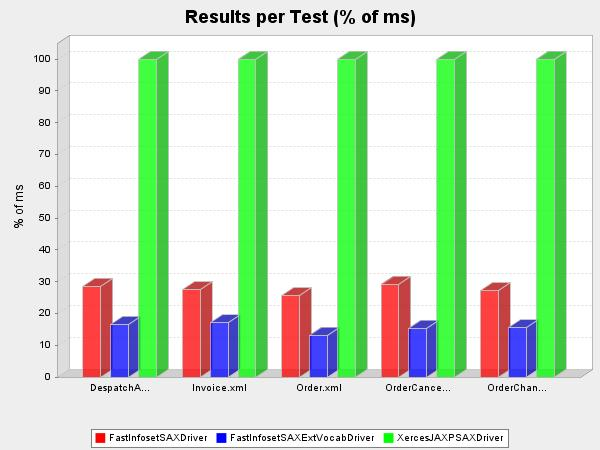
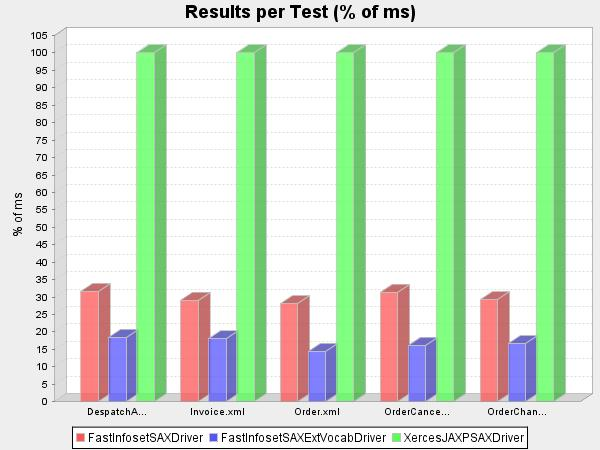
update from reports/UBLFIpex/2006_01_12_23_46

diff --git a/www/performance-reports/UBL/parse/report.html b/www/performance-reports/UBL/parse/report.html
@@ -1,4 +1,15 @@
-<?xml version="1.0" encoding="UTF-8"?><html xmlns="http://www.w3.org/1999/xhtml" xmlns:extrep="http://www.sun.com/japex/extendedTestSuiteReport" xmlns:rep="http://www.sun.com/japex/testSuiteReport"><link href="report.css" type="text/css" rel="stylesheet"/><head><h1>Japex Report: UBL-parse-index</h1></head><body><ul><li>classPath: /export/home/ps23762/Projects/zarya.east/JapexXMLDriverLibrary/dist/JapexXMLDriverLibrary.jar</li><li>dateTime: 09 Sep 2005/19:38:23 CEST</li><li>numberOfThreads: 1</li><li>osArchitecture: x86</li><li>osName: SunOS</li><li>reportsDirectory: reports</li><li>resultUnit: ms</li><li>runsPerDriver: 1</li><li>runTime: 5</li><li>version: 0.100</li><li>vmInfo: Sun Microsystems Inc. 1.5.0_04-b05</li><li>warmupTime: 5</li></ul><h2>Result Summary 
-    (ms)</h2><table width="80%" border="1"><thead><tr><th width="15%"><b>driver</b></th><th><b>resultAritMean</b></th><th><b>resultHarmMean</b></th><th><b>resultGeomMean</b></th><th><b>driverClass</b></th></tr></thead><tbody><tr><td align="right">FastInfosetSAXDriver</td><td align="right"><nobr>0.062</nobr></td><td align="right"><nobr>0.048</nobr></td><td align="right"><nobr>0.056</nobr></td><td align="right"><nobr>com.sun.japex.jdsl.xml.parsing.sax.FastInfosetSAXDriver</nobr></td></tr><tr><td align="right">FastInfosetSAXExtVocabDriver</td><td align="right"><nobr>0.036</nobr></td><td align="right"><nobr>0.027</nobr></td><td align="right"><nobr>0.032</nobr></td><td align="right"><nobr>com.sun.japex.jdsl.xml.parsing.sax.FastInfosetSAXDriver</nobr></td><td align="left"><nobr>true</nobr></td></tr><tr><td align="right">XercesJAXPSAXDriver</td><td align="right"><nobr>0.275</nobr></td><td align="right"><nobr>0.211</nobr></td><td align="right"><nobr>0.248</nobr></td><td align="right"><nobr>com.sun.japex.jdsl.xml.parsing.sax.XercesJAXPSAXDriver</nobr></td></tr></tbody></table><br/><br/><center><img src="result.jpg"/></center><br/><br/><h2>Driver: FastInfosetSAXDriver</h2><table width="80%" border="1"><thead><tr><th><b>testCase</b></th><th><b>resultValue</b></th><th><b>xmlfile</b></th></tr></thead><tbody><tr><td align="right">DespatchAdvice.xml</td><td align="right"><nobr>0.076</nobr></td><td align="left"><nobr>data/DespatchAdvice.xml</nobr></td></tr><tr><td align="right">Invoice.xml</td><td align="right"><nobr>0.118</nobr></td><td align="left"><nobr>data/Invoice.xml</nobr></td></tr><tr><td align="right">Order.xml</td><td align="right"><nobr>0.071</nobr></td><td align="left"><nobr>data/Order.xml</nobr></td></tr><tr><td align="right">OrderCancellation.xml</td><td align="right"><nobr>0.055</nobr></td><td align="left"><nobr>data/OrderCancellation.xml</nobr></td></tr><tr><td align="right">OrderChange.xml</td><td align="right"><nobr>0.086</nobr></td><td align="left"><nobr>data/OrderChange.xml</nobr></td></tr><tr><td align="right">OrderResponse.xml</td><td align="right"><nobr>0.088</nobr></td><td align="left"><nobr>data/OrderResponse.xml</nobr></td></tr><tr><td align="right">OrderResponseSimple.xml</td><td align="right"><nobr>0.054</nobr></td><td align="left"><nobr>data/OrderResponseSimple.xml</nobr></td></tr><tr><td align="right">ReceiptAdvice.xml</td><td align="right"><nobr>0.079</nobr></td><td align="left"><nobr>data/ReceiptAdvice.xml</nobr></td></tr><tr><td align="right">UBL-DespatchAdvice-1.0-Joinery-Example.xml</td><td align="right"><nobr>0.050</nobr></td><td align="left"><nobr>data/UBL-DespatchAdvice-1.0-Joinery-Example.xml</nobr></td></tr><tr><td align="right">UBL-DespatchAdvice-1.0-Office-Example.xml</td><td align="right"><nobr>0.045</nobr></td><td align="left"><nobr>data/UBL-DespatchAdvice-1.0-Office-Example.xml</nobr></td></tr><tr><td align="right">UBL-Invoice-1.0-Joinery-Example.xml</td><td align="right"><nobr>0.098</nobr></td><td align="left"><nobr>data/UBL-Invoice-1.0-Joinery-Example.xml</nobr></td></tr><tr><td align="right">UBL-Invoice-1.0-Office-Example.xml</td><td align="right"><nobr>0.064</nobr></td><td align="left"><nobr>data/UBL-Invoice-1.0-Office-Example.xml</nobr></td></tr><tr><td align="right">UBL-Order-1.0-Joinery-Example.xml</td><td align="right"><nobr>0.052</nobr></td><td align="left"><nobr>data/UBL-Order-1.0-Joinery-Example.xml</nobr></td></tr><tr><td align="right">UBL-Order-1.0-Office-Example.xml</td><td align="right"><nobr>0.048</nobr></td><td align="left"><nobr>data/UBL-Order-1.0-Office-Example.xml</nobr></td></tr><tr><td align="right">UBL-OrderCancellation-1.0-Office-Example.xml</td><td align="right"><nobr>0.017</nobr></td><td align="left"><nobr>data/UBL-OrderCancellation-1.0-Office-Example.xml</nobr></td></tr><tr><td align="right">UBL-OrderChange-1.0-Office-Example.xml</td><td align="right"><nobr>0.053</nobr></td><td align="left"><nobr>data/UBL-OrderChange-1.0-Office-Example.xml</nobr></td></tr><tr><td align="right">UBL-OrderResponse-1.0-Joinery-Example.xml</td><td align="right"><nobr>0.071</nobr></td><td align="left"><nobr>data/UBL-OrderResponse-1.0-Joinery-Example.xml</nobr></td></tr><tr><td align="right">UBL-OrderResponseSimple-1.0-Office-Example.xml</td><td align="right"><nobr>0.017</nobr></td><td align="left"><nobr>data/UBL-OrderResponseSimple-1.0-Office-Example.xml</nobr></td></tr><tr><td align="right">UBL-ReceiptAdvice-1.0-Office-Example.xml</td><td align="right"><nobr>0.035</nobr></td><td align="left"><nobr>data/UBL-ReceiptAdvice-1.0-Office-Example.xml</nobr></td></tr></tbody></table><h2>Driver: FastInfosetSAXExtVocabDriver</h2><table width="80%" border="1"><thead><tr><th><b>testCase</b></th><th><b>resultValue</b></th><th><b>xmlfile</b></th></tr></thead><tbody><tr><td align="right">DespatchAdvice.xml</td><td align="right"><nobr>0.044</nobr></td><td align="left"><nobr>data/DespatchAdvice.xml</nobr></td></tr><tr><td align="right">Invoice.xml</td><td align="right"><nobr>0.073</nobr></td><td align="left"><nobr>data/Invoice.xml</nobr></td></tr><tr><td align="right">Order.xml</td><td align="right"><nobr>0.037</nobr></td><td align="left"><nobr>data/Order.xml</nobr></td></tr><tr><td align="right">OrderCancellation.xml</td><td align="right"><nobr>0.029</nobr></td><td align="left"><nobr>data/OrderCancellation.xml</nobr></td></tr><tr><td align="right">OrderChange.xml</td><td align="right"><nobr>0.049</nobr></td><td align="left"><nobr>data/OrderChange.xml</nobr></td></tr><tr><td align="right">OrderResponse.xml</td><td align="right"><nobr>0.052</nobr></td><td align="left"><nobr>data/OrderResponse.xml</nobr></td></tr><tr><td align="right">OrderResponseSimple.xml</td><td align="right"><nobr>0.028</nobr></td><td align="left"><nobr>data/OrderResponseSimple.xml</nobr></td></tr><tr><td align="right">ReceiptAdvice.xml</td><td align="right"><nobr>0.048</nobr></td><td align="left"><nobr>data/ReceiptAdvice.xml</nobr></td></tr><tr><td align="right">UBL-DespatchAdvice-1.0-Joinery-Example.xml</td><td align="right"><nobr>0.032</nobr></td><td align="left"><nobr>data/UBL-DespatchAdvice-1.0-Joinery-Example.xml</nobr></td></tr><tr><td align="right">UBL-DespatchAdvice-1.0-Office-Example.xml</td><td align="right"><nobr>0.027</nobr></td><td align="left"><nobr>data/UBL-DespatchAdvice-1.0-Office-Example.xml</nobr></td></tr><tr><td align="right">UBL-Invoice-1.0-Joinery-Example.xml</td><td align="right"><nobr>0.058</nobr></td><td align="left"><nobr>data/UBL-Invoice-1.0-Joinery-Example.xml</nobr></td></tr><tr><td align="right">UBL-Invoice-1.0-Office-Example.xml</td><td align="right"><nobr>0.037</nobr></td><td align="left"><nobr>data/UBL-Invoice-1.0-Office-Example.xml</nobr></td></tr><tr><td align="right">UBL-Order-1.0-Joinery-Example.xml</td><td align="right"><nobr>0.035</nobr></td><td align="left"><nobr>data/UBL-Order-1.0-Joinery-Example.xml</nobr></td></tr><tr><td align="right">UBL-Order-1.0-Office-Example.xml</td><td align="right"><nobr>0.028</nobr></td><td align="left"><nobr>data/UBL-Order-1.0-Office-Example.xml</nobr></td></tr><tr><td align="right">UBL-OrderCancellation-1.0-Office-Example.xml</td><td align="right"><nobr>0.009</nobr></td><td align="left"><nobr>data/UBL-OrderCancellation-1.0-Office-Example.xml</nobr></td></tr><tr><td align="right">UBL-OrderChange-1.0-Office-Example.xml</td><td align="right"><nobr>0.031</nobr></td><td align="left"><nobr>data/UBL-OrderChange-1.0-Office-Example.xml</nobr></td></tr><tr><td align="right">UBL-OrderResponse-1.0-Joinery-Example.xml</td><td align="right"><nobr>0.047</nobr></td><td align="left"><nobr>data/UBL-OrderResponse-1.0-Joinery-Example.xml</nobr></td></tr><tr><td align="right">UBL-OrderResponseSimple-1.0-Office-Example.xml</td><td align="right"><nobr>0.009</nobr></td><td align="left"><nobr>data/UBL-OrderResponseSimple-1.0-Office-Example.xml</nobr></td></tr><tr><td align="right">UBL-ReceiptAdvice-1.0-Office-Example.xml</td><td align="right"><nobr>0.020</nobr></td><td align="left"><nobr>data/UBL-ReceiptAdvice-1.0-Office-Example.xml</nobr></td></tr></tbody></table><h2>Driver: XercesJAXPSAXDriver</h2><table width="80%" border="1"><thead><tr><th><b>testCase</b></th><th><b>resultValue</b></th><th><b>xmlfile</b></th></tr></thead><tbody><tr><td align="right">DespatchAdvice.xml</td><td align="right"><nobr>0.266</nobr></td><td align="left"><nobr>data/DespatchAdvice.xml</nobr></td></tr><tr><td align="right">Invoice.xml</td><td align="right"><nobr>0.429</nobr></td><td align="left"><nobr>data/Invoice.xml</nobr></td></tr><tr><td align="right">Order.xml</td><td align="right"><nobr>0.277</nobr></td><td align="left"><nobr>data/Order.xml</nobr></td></tr><tr><td align="right">OrderCancellation.xml</td><td align="right"><nobr>0.187</nobr></td><td align="left"><nobr>data/OrderCancellation.xml</nobr></td></tr><tr><td align="right">OrderChange.xml</td><td align="right"><nobr>0.315</nobr></td><td align="left"><nobr>data/OrderChange.xml</nobr></td></tr><tr><td align="right">OrderResponse.xml</td><td align="right"><nobr>0.347</nobr></td><td align="left"><nobr>data/OrderResponse.xml</nobr></td></tr><tr><td align="right">OrderResponseSimple.xml</td><td align="right"><nobr>0.188</nobr></td><td align="left"><nobr>data/OrderResponseSimple.xml</nobr></td></tr><tr><td align="right">ReceiptAdvice.xml</td><td align="right"><nobr>0.280</nobr></td><td align="left"><nobr>data/ReceiptAdvice.xml</nobr></td></tr><tr><td align="right">UBL-DespatchAdvice-1.0-Joinery-Example.xml</td><td align="right"><nobr>0.316</nobr></td><td align="left"><nobr>data/UBL-DespatchAdvice-1.0-Joinery-Example.xml</nobr></td></tr><tr><td align="right">UBL-DespatchAdvice-1.0-Office-Example.xml</td><td align="right"><nobr>0.252</nobr></td><td align="left"><nobr>data/UBL-DespatchAdvice-1.0-Office-Example.xml</nobr></td></tr><tr><td align="right">UBL-Invoice-1.0-Joinery-Example.xml</td><td align="right"><nobr>0.508</nobr></td><td align="left"><nobr>data/UBL-Invoice-1.0-Joinery-Example.xml</nobr></td></tr><tr><td align="right">UBL-Invoice-1.0-Office-Example.xml</td><td align="right"><nobr>0.348</nobr></td><td align="left"><nobr>data/UBL-Invoice-1.0-Office-Example.xml</nobr></td></tr><tr><td align="right">UBL-Order-1.0-Joinery-Example.xml</td><td align="right"><nobr>0.289</nobr></td><td align="left"><nobr>data/UBL-Order-1.0-Joinery-Example.xml</nobr></td></tr><tr><td align="right">UBL-Order-1.0-Office-Example.xml</td><td align="right"><nobr>0.267</nobr></td><td align="left"><nobr>data/UBL-Order-1.0-Office-Example.xml</nobr></td></tr><tr><td align="right">UBL-OrderCancellation-1.0-Office-Example.xml</td><td align="right"><nobr>0.068</nobr></td><td align="left"><nobr>data/UBL-OrderCancellation-1.0-Office-Example.xml</nobr></td></tr><tr><td align="right">UBL-OrderChange-1.0-Office-Example.xml</td><td align="right"><nobr>0.284</nobr></td><td align="left"><nobr>data/UBL-OrderChange-1.0-Office-Example.xml</nobr></td></tr><tr><td align="right">UBL-OrderResponse-1.0-Joinery-Example.xml</td><td align="right"><nobr>0.350</nobr></td><td align="left"><nobr>data/UBL-OrderResponse-1.0-Joinery-Example.xml</nobr></td></tr><tr><td align="right">UBL-OrderResponseSimple-1.0-Office-Example.xml</td><td align="right"><nobr>0.070</nobr></td><td align="left"><nobr>data/UBL-OrderResponseSimple-1.0-Office-Example.xml</nobr></td></tr><tr><td align="right">UBL-ReceiptAdvice-1.0-Office-Example.xml</td><td align="right"><nobr>0.177</nobr></td><td align="left"><nobr>data/UBL-ReceiptAdvice-1.0-Office-Example.xml</nobr></td></tr></tbody></table><br/><br/><center><img src="testcase0.jpg"/></center><br/><br/><br/><br/><center><img src="testcase1.jpg"/></center><br/><br/><br/><br/><center><img src="testcase2.jpg"/></center><br/><br/><br/><br/><center><img src="testcase3.jpg"/></center><br/><br/><br/><small><hr/><i><font size="-2">
+<?xml version="1.0" encoding="UTF-8"?><html xmlns="http://www.w3.org/1999/xhtml" xmlns:extrep="http://www.sun.com/japex/extendedTestSuiteReport" xmlns:rep="http://www.sun.com/japex/testSuiteReport"><link href="report.css" type="text/css" rel="stylesheet"/><head><h1>Japex Report: UBL-parse</h1></head><body><ul><li>chartType: barchart</li><li>classPath: /export/home/hw123265/cvsroot/japex/dist/jdsl/FastInfoset.jar
+/export/home/hw123265/cvsroot/japex/dist/jdsl/activation.jar
+/export/home/hw123265/cvsroot/japex/dist/jdsl/jaxb-api.jar
+/export/home/hw123265/cvsroot/japex/dist/jdsl/jaxb-impl.jar
+/export/home/hw123265/cvsroot/japex/dist/jdsl/jaxb-xjc.jar
+/export/home/hw123265/cvsroot/japex/dist/jdsl/jaxb1-impl.jar
+/export/home/hw123265/cvsroot/japex/dist/jdsl/jdsl.jar
+/export/home/hw123265/cvsroot/japex/dist/jdsl/jsr173_api.jar
+/export/home/hw123265/cvsroot/japex/dist/jdsl/resolver.jar
+/export/home/hw123265/cvsroot/japex/dist/jdsl/sjsxp.jar
+/export/home/hw123265/cvsroot/japex/dist/jdsl/xercesImpl.jar
+/export/home/hw123265/cvsroot/japex/dist/jdsl/xml-apis.jar</li><li>configFile: parse.xml</li><li>dateTime: 12 Jan 2006/23:46:20 EST</li><li>includeWarmupRun: false</li><li>numberOfThreads: 1</li><li>osArchitecture: x86</li><li>osName: SunOS</li><li>reportsDirectory: reports</li><li>resultAxis: normal</li><li>resultAxisX: normal</li><li>resultUnit: ms</li><li>resultUnitX: kbs</li><li>runsPerDriver: 1</li><li>runTime: 5</li><li>version: 0.100</li><li>vmInfo: Sun Microsystems Inc. 1.5.0_04-b05</li><li>warmupTime: 5</li></ul><h2>Result Summary 
+    (ms)</h2><table width="80%" border="1"><thead><tr><th width="15%"><b>driver</b></th><th><b>resultAritMean</b></th><th><b>resultHarmMean</b></th><th><b>resultGeomMean</b></th><th><b>driverClass</b></th></tr></thead><tbody><tr><td align="right">FastInfosetSAXDriver</td><td align="right"><nobr>0.082</nobr></td><td align="right"><nobr>0.063</nobr></td><td align="right"><nobr>0.074</nobr></td><td align="right"><nobr>com.sun.japex.jdsl.xml.parsing.sax.FastInfosetSAXDriver</nobr></td></tr><tr><td align="right">FastInfosetSAXExtVocabDriver</td><td align="right"><nobr>0.048</nobr></td><td align="right"><nobr>0.035</nobr></td><td align="right"><nobr>0.042</nobr></td><td align="right"><nobr>com.sun.japex.jdsl.xml.parsing.sax.FastInfosetSAXDriver</nobr></td><td align="left"><nobr>true</nobr></td></tr><tr><td align="right">XercesJAXPSAXDriver</td><td align="right"><nobr>0.339</nobr></td><td align="right"><nobr>0.264</nobr></td><td align="right"><nobr>0.307</nobr></td><td align="right"><nobr>com.sun.japex.jdsl.xml.parsing.sax.XercesJAXPSAXDriver</nobr></td></tr></tbody></table><br/><br/><center><img src="result.jpg"/></center><br/><br/><h2>Driver: FastInfosetSAXDriver</h2><table width="80%" border="1"><thead><tr><th><b>testCase</b></th><th><b>resultValue</b></th><th><b>xmlfile</b></th></tr></thead><tbody><tr><td align="right">DespatchAdvice.xml</td><td align="right"><nobr>0.102</nobr></td><td align="left"><nobr>data/DespatchAdvice.xml</nobr></td></tr><tr><td align="right">Invoice.xml</td><td align="right"><nobr>0.155</nobr></td><td align="left"><nobr>data/Invoice.xml</nobr></td></tr><tr><td align="right">Order.xml</td><td align="right"><nobr>0.096</nobr></td><td align="left"><nobr>data/Order.xml</nobr></td></tr><tr><td align="right">OrderCancellation.xml</td><td align="right"><nobr>0.073</nobr></td><td align="left"><nobr>data/OrderCancellation.xml</nobr></td></tr><tr><td align="right">OrderChange.xml</td><td align="right"><nobr>0.115</nobr></td><td align="left"><nobr>data/OrderChange.xml</nobr></td></tr><tr><td align="right">OrderResponse.xml</td><td align="right"><nobr>0.119</nobr></td><td align="left"><nobr>data/OrderResponse.xml</nobr></td></tr><tr><td align="right">OrderResponseSimple.xml</td><td align="right"><nobr>0.072</nobr></td><td align="left"><nobr>data/OrderResponseSimple.xml</nobr></td></tr><tr><td align="right">ReceiptAdvice.xml</td><td align="right"><nobr>0.107</nobr></td><td align="left"><nobr>data/ReceiptAdvice.xml</nobr></td></tr><tr><td align="right">UBL-DespatchAdvice-1.0-Joinery-Example.xml</td><td align="right"><nobr>0.068</nobr></td><td align="left"><nobr>data/UBL-DespatchAdvice-1.0-Joinery-Example.xml</nobr></td></tr><tr><td align="right">UBL-DespatchAdvice-1.0-Office-Example.xml</td><td align="right"><nobr>0.061</nobr></td><td align="left"><nobr>data/UBL-DespatchAdvice-1.0-Office-Example.xml</nobr></td></tr><tr><td align="right">UBL-Invoice-1.0-Joinery-Example.xml</td><td align="right"><nobr>0.132</nobr></td><td align="left"><nobr>data/UBL-Invoice-1.0-Joinery-Example.xml</nobr></td></tr><tr><td align="right">UBL-Invoice-1.0-Office-Example.xml</td><td align="right"><nobr>0.087</nobr></td><td align="left"><nobr>data/UBL-Invoice-1.0-Office-Example.xml</nobr></td></tr><tr><td align="right">UBL-Order-1.0-Joinery-Example.xml</td><td align="right"><nobr>0.062</nobr></td><td align="left"><nobr>data/UBL-Order-1.0-Joinery-Example.xml</nobr></td></tr><tr><td align="right">UBL-Order-1.0-Office-Example.xml</td><td align="right"><nobr>0.064</nobr></td><td align="left"><nobr>data/UBL-Order-1.0-Office-Example.xml</nobr></td></tr><tr><td align="right">UBL-OrderCancellation-1.0-Office-Example.xml</td><td align="right"><nobr>0.022</nobr></td><td align="left"><nobr>data/UBL-OrderCancellation-1.0-Office-Example.xml</nobr></td></tr><tr><td align="right">UBL-OrderChange-1.0-Office-Example.xml</td><td align="right"><nobr>0.071</nobr></td><td align="left"><nobr>data/UBL-OrderChange-1.0-Office-Example.xml</nobr></td></tr><tr><td align="right">UBL-OrderResponse-1.0-Joinery-Example.xml</td><td align="right"><nobr>0.088</nobr></td><td align="left"><nobr>data/UBL-OrderResponse-1.0-Joinery-Example.xml</nobr></td></tr><tr><td align="right">UBL-OrderResponseSimple-1.0-Office-Example.xml</td><td align="right"><nobr>0.022</nobr></td><td align="left"><nobr>data/UBL-OrderResponseSimple-1.0-Office-Example.xml</nobr></td></tr><tr><td align="right">UBL-ReceiptAdvice-1.0-Office-Example.xml</td><td align="right"><nobr>0.048</nobr></td><td align="left"><nobr>data/UBL-ReceiptAdvice-1.0-Office-Example.xml</nobr></td></tr></tbody></table><h2>Driver: FastInfosetSAXExtVocabDriver</h2><table width="80%" border="1"><thead><tr><th><b>testCase</b></th><th><b>resultValue</b></th><th><b>xmlfile</b></th></tr></thead><tbody><tr><td align="right">DespatchAdvice.xml</td><td align="right"><nobr>0.060</nobr></td><td align="left"><nobr>data/DespatchAdvice.xml</nobr></td></tr><tr><td align="right">Invoice.xml</td><td align="right"><nobr>0.096</nobr></td><td align="left"><nobr>data/Invoice.xml</nobr></td></tr><tr><td align="right">Order.xml</td><td align="right"><nobr>0.049</nobr></td><td align="left"><nobr>data/Order.xml</nobr></td></tr><tr><td align="right">OrderCancellation.xml</td><td align="right"><nobr>0.038</nobr></td><td align="left"><nobr>data/OrderCancellation.xml</nobr></td></tr><tr><td align="right">OrderChange.xml</td><td align="right"><nobr>0.066</nobr></td><td align="left"><nobr>data/OrderChange.xml</nobr></td></tr><tr><td align="right">OrderResponse.xml</td><td align="right"><nobr>0.072</nobr></td><td align="left"><nobr>data/OrderResponse.xml</nobr></td></tr><tr><td align="right">OrderResponseSimple.xml</td><td align="right"><nobr>0.038</nobr></td><td align="left"><nobr>data/OrderResponseSimple.xml</nobr></td></tr><tr><td align="right">ReceiptAdvice.xml</td><td align="right"><nobr>0.065</nobr></td><td align="left"><nobr>data/ReceiptAdvice.xml</nobr></td></tr><tr><td align="right">UBL-DespatchAdvice-1.0-Joinery-Example.xml</td><td align="right"><nobr>0.043</nobr></td><td align="left"><nobr>data/UBL-DespatchAdvice-1.0-Joinery-Example.xml</nobr></td></tr><tr><td align="right">UBL-DespatchAdvice-1.0-Office-Example.xml</td><td align="right"><nobr>0.036</nobr></td><td align="left"><nobr>data/UBL-DespatchAdvice-1.0-Office-Example.xml</nobr></td></tr><tr><td align="right">UBL-Invoice-1.0-Joinery-Example.xml</td><td align="right"><nobr>0.079</nobr></td><td align="left"><nobr>data/UBL-Invoice-1.0-Joinery-Example.xml</nobr></td></tr><tr><td align="right">UBL-Invoice-1.0-Office-Example.xml</td><td align="right"><nobr>0.050</nobr></td><td align="left"><nobr>data/UBL-Invoice-1.0-Office-Example.xml</nobr></td></tr><tr><td align="right">UBL-Order-1.0-Joinery-Example.xml</td><td align="right"><nobr>0.039</nobr></td><td align="left"><nobr>data/UBL-Order-1.0-Joinery-Example.xml</nobr></td></tr><tr><td align="right">UBL-Order-1.0-Office-Example.xml</td><td align="right"><nobr>0.039</nobr></td><td align="left"><nobr>data/UBL-Order-1.0-Office-Example.xml</nobr></td></tr><tr><td align="right">UBL-OrderCancellation-1.0-Office-Example.xml</td><td align="right"><nobr>0.011</nobr></td><td align="left"><nobr>data/UBL-OrderCancellation-1.0-Office-Example.xml</nobr></td></tr><tr><td align="right">UBL-OrderChange-1.0-Office-Example.xml</td><td align="right"><nobr>0.043</nobr></td><td align="left"><nobr>data/UBL-OrderChange-1.0-Office-Example.xml</nobr></td></tr><tr><td align="right">UBL-OrderResponse-1.0-Joinery-Example.xml</td><td align="right"><nobr>0.054</nobr></td><td align="left"><nobr>data/UBL-OrderResponse-1.0-Joinery-Example.xml</nobr></td></tr><tr><td align="right">UBL-OrderResponseSimple-1.0-Office-Example.xml</td><td align="right"><nobr>0.011</nobr></td><td align="left"><nobr>data/UBL-OrderResponseSimple-1.0-Office-Example.xml</nobr></td></tr><tr><td align="right">UBL-ReceiptAdvice-1.0-Office-Example.xml</td><td align="right"><nobr>0.026</nobr></td><td align="left"><nobr>data/UBL-ReceiptAdvice-1.0-Office-Example.xml</nobr></td></tr></tbody></table><h2>Driver: XercesJAXPSAXDriver</h2><table width="80%" border="1"><thead><tr><th><b>testCase</b></th><th><b>resultValue</b></th><th><b>xmlfile</b></th></tr></thead><tbody><tr><td align="right">DespatchAdvice.xml</td><td align="right"><nobr>0.323</nobr></td><td align="left"><nobr>data/DespatchAdvice.xml</nobr></td></tr><tr><td align="right">Invoice.xml</td><td align="right"><nobr>0.532</nobr></td><td align="left"><nobr>data/Invoice.xml</nobr></td></tr><tr><td align="right">Order.xml</td><td align="right"><nobr>0.340</nobr></td><td align="left"><nobr>data/Order.xml</nobr></td></tr><tr><td align="right">OrderCancellation.xml</td><td align="right"><nobr>0.234</nobr></td><td align="left"><nobr>data/OrderCancellation.xml</nobr></td></tr><tr><td align="right">OrderChange.xml</td><td align="right"><nobr>0.392</nobr></td><td align="left"><nobr>data/OrderChange.xml</nobr></td></tr><tr><td align="right">OrderResponse.xml</td><td align="right"><nobr>0.433</nobr></td><td align="left"><nobr>data/OrderResponse.xml</nobr></td></tr><tr><td align="right">OrderResponseSimple.xml</td><td align="right"><nobr>0.234</nobr></td><td align="left"><nobr>data/OrderResponseSimple.xml</nobr></td></tr><tr><td align="right">ReceiptAdvice.xml</td><td align="right"><nobr>0.354</nobr></td><td align="left"><nobr>data/ReceiptAdvice.xml</nobr></td></tr><tr><td align="right">UBL-DespatchAdvice-1.0-Joinery-Example.xml</td><td align="right"><nobr>0.383</nobr></td><td align="left"><nobr>data/UBL-DespatchAdvice-1.0-Joinery-Example.xml</nobr></td></tr><tr><td align="right">UBL-DespatchAdvice-1.0-Office-Example.xml</td><td align="right"><nobr>0.312</nobr></td><td align="left"><nobr>data/UBL-DespatchAdvice-1.0-Office-Example.xml</nobr></td></tr><tr><td align="right">UBL-Invoice-1.0-Joinery-Example.xml</td><td align="right"><nobr>0.618</nobr></td><td align="left"><nobr>data/UBL-Invoice-1.0-Joinery-Example.xml</nobr></td></tr><tr><td align="right">UBL-Invoice-1.0-Office-Example.xml</td><td align="right"><nobr>0.428</nobr></td><td align="left"><nobr>data/UBL-Invoice-1.0-Office-Example.xml</nobr></td></tr><tr><td align="right">UBL-Order-1.0-Joinery-Example.xml</td><td align="right"><nobr>0.345</nobr></td><td align="left"><nobr>data/UBL-Order-1.0-Joinery-Example.xml</nobr></td></tr><tr><td align="right">UBL-Order-1.0-Office-Example.xml</td><td align="right"><nobr>0.329</nobr></td><td align="left"><nobr>data/UBL-Order-1.0-Office-Example.xml</nobr></td></tr><tr><td align="right">UBL-OrderCancellation-1.0-Office-Example.xml</td><td align="right"><nobr>0.089</nobr></td><td align="left"><nobr>data/UBL-OrderCancellation-1.0-Office-Example.xml</nobr></td></tr><tr><td align="right">UBL-OrderChange-1.0-Office-Example.xml</td><td align="right"><nobr>0.352</nobr></td><td align="left"><nobr>data/UBL-OrderChange-1.0-Office-Example.xml</nobr></td></tr><tr><td align="right">UBL-OrderResponse-1.0-Joinery-Example.xml</td><td align="right"><nobr>0.425</nobr></td><td align="left"><nobr>data/UBL-OrderResponse-1.0-Joinery-Example.xml</nobr></td></tr><tr><td align="right">UBL-OrderResponseSimple-1.0-Office-Example.xml</td><td align="right"><nobr>0.091</nobr></td><td align="left"><nobr>data/UBL-OrderResponseSimple-1.0-Office-Example.xml</nobr></td></tr><tr><td align="right">UBL-ReceiptAdvice-1.0-Office-Example.xml</td><td align="right"><nobr>0.217</nobr></td><td align="left"><nobr>data/UBL-ReceiptAdvice-1.0-Office-Example.xml</nobr></td></tr></tbody></table><br/><br/><center><img src="testcase0.jpg"/></center><br/><br/><br/><br/><center><img src="testcase1.jpg"/></center><br/><br/><br/><br/><center><img src="testcase2.jpg"/></center><br/><br/><br/><br/><center><img src="testcase3.jpg"/></center><br/><br/><br/><small><hr/><i><font size="-2">
         Author: Santiago Pericas-Geertsen (Sun Microsystems)
         </font></i></small></body></html>
